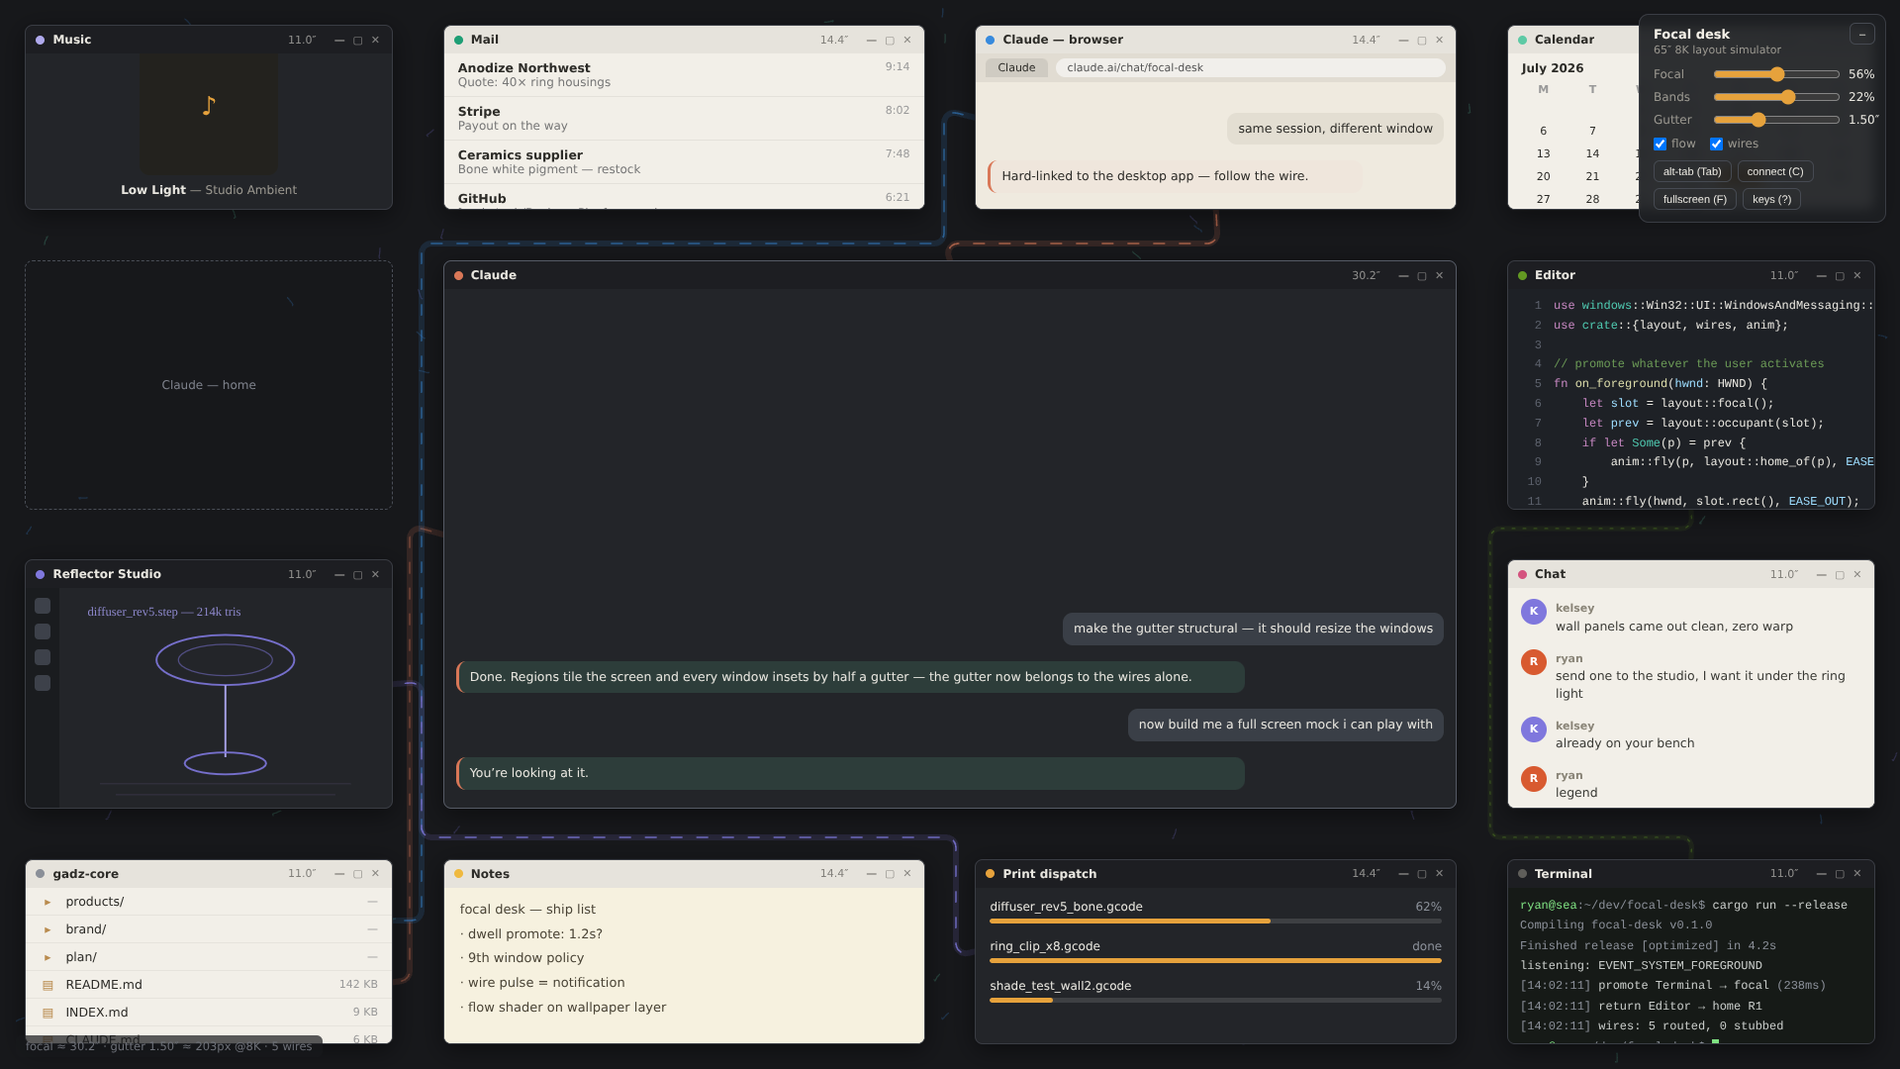
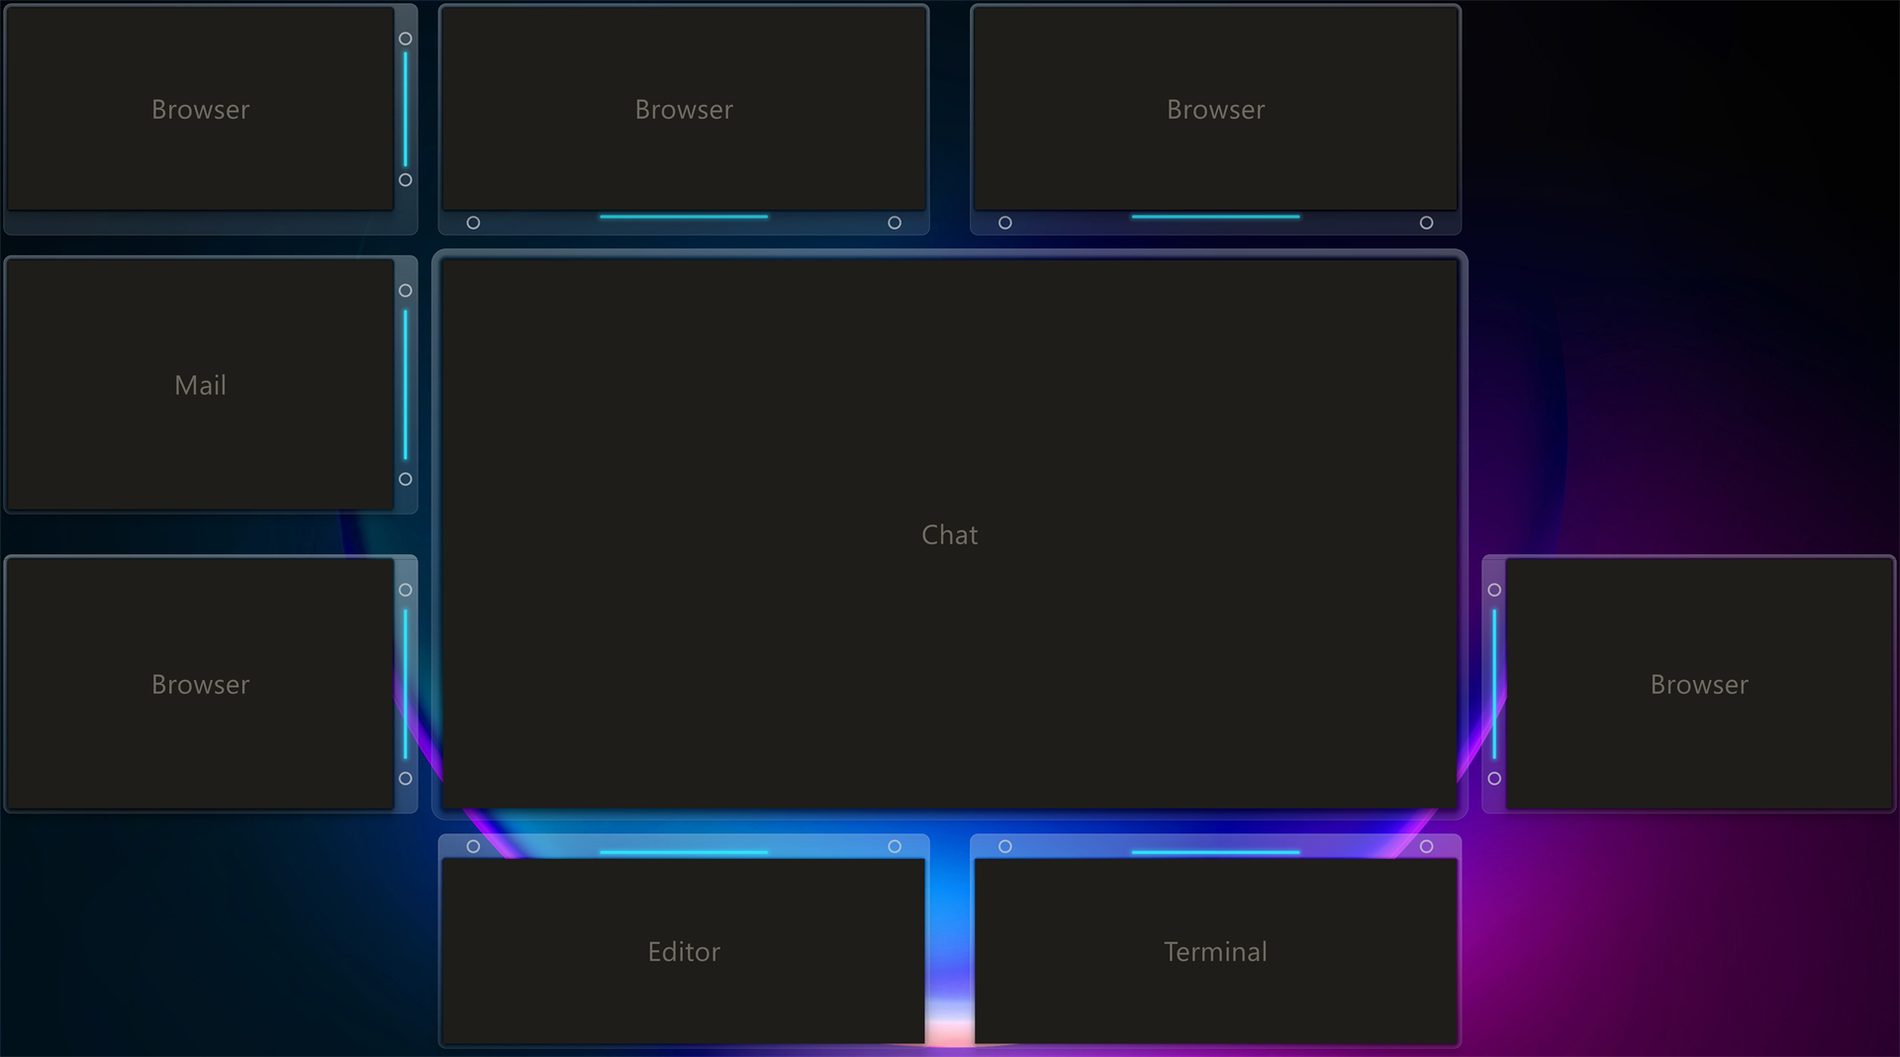
docs: merge feat/frames - README and RUN.md describe the frames (tap to promote, drag to move, focus from the frame only, slot rules, edge margins), new screenshot of the service on the panel with window contents masked; CLAUDE.md marked SHARED-RULES:EXEMPT (this repo is public)
The shared-rules block had been stamped into this public repo's CLAUDE.md on 2026-08-21 and re-synced 2026-09-01; per the rule a public repo carries the EXEMPT marker instead. The screenshot is the real 8K panel at 15:53 on 2026-09-04, downscaled to 1920 wide, every window's client area replaced by a flat panel and a generic label; desktop icons hidden and the taskbar cropped for the capture.

diff --git a/CLAUDE.md b/CLAUDE.md
@@ -22,179 +22,6 @@ Conventions for anyone (human or Claude) working this repo:
 - `win::is_manageable` is the one place that decides what focal-desk owns. Keep
   it conservative — a window that cannot be resized cannot be tiled.
 
-<!-- SHARED-RULES:BEGIN — synced from C:\Dev\SHARED-RULES.md by sync-rules.sh; edit THERE, never here -->
-# Shared rules — every repo under C:\Dev
-
-**This file is the single source of truth.** `sync-rules.sh` stamps it between
-`SHARED-RULES` markers in every repo's `CLAUDE.md`. Rule changes happen HERE,
-then run the sync and commit the touched repos — never edit between the markers
-in a repo. (Origin: box/CLAUDE.md; centralized 2026-08-21 to kill the
-"same text lives in..." copy-paste pattern.)
-
-## The map
-
-`C:\Dev` is a meta-repo (`github.com/ryangadz/dev-meta`, private) holding
-`MAP.md` — the census of what every folder on this machine is (repo / lane
-checkout / worktree / disposable), with its remote, branch, and purpose.
-Confused about a folder? **Read the map, don't guess.** A folder missing from
-the map is a defect: add it or rule it disposable. Whoever edits `MAP.md`
-regenerates `MAP.html` (Ryan's visual pair) in the same session.
-
-## Session communication rules (added 2026-07-30)
-
-### No loose ends in prose
-
-Statements like "two files still uncommitted at `<path>`" are **banned**. They are
-ambiguous (commit what? when? by whom? with what message?) and they are how work gets
-lost. Every piece of pending state lands in exactly one of three places:
-
-1. **Resolved** — Claude does it in-session. This is the default. The target state of
-   this whole stack is that Ryan never manually commits, pushes, or copy-pastes anything;
-   every manual step Claude hands out is a defect to engineer away.
-2. **An explicit action block** — when Ryan must act, it is a fenced block at the END of
-   the message containing the exact commands or the exact decision needed, and nothing
-   else. Never a sentence buried mid-paragraph.
-3. **A tracked file** — the handoff's open-threads list, stating what, where, and who
-   acts next.
-
-Questions for Ryan are never embedded in a paragraph. Use the question tool, or a
-separate line starting `QUESTION:`. One question at a time, impossible to miss.
-
-### Division of labor: Cowork plans, Code executes (added 2026-07-31)
-
-A Cowork session's deliverable is the **written plan**: files on disk, handoff, a
-BUILD-QUEUE/runbook entry naming the branch, the paths, and the definition of done.
-Execution — git, installs, merges, verification — belongs to **Claude Code sessions**,
-which pick the plan up from those files. Proven live 2026-07-31: a Code session
-committed and pushed `gate-family-instance` from the written plan at 17:28, minutes
-before Ryan pasted a Cowork-issued action block for the SAME work — a double-execution
-collision that is exactly the cut-and-paste error class this split exists to remove.
-Action blocks to Ryan are reserved for the few things only he can do (GitHub web steps,
-physical hardware, secrets) — never for anything a Code session can run.
-
-**Corollary — one session, one lane.** A session that notices work outside its lane
-writes it into the plan for the right lane instead of doing it.
-
-**The proven multiplier (reflector studio, days 1-2; Ryan, 2026-07-31): Cowork drafts
-prompts for SEVERAL parallel Code workers with disjoint write sets — one checkout per
-worker, lanes like features/export/UI — in `box/WORKER-PROMPTS-<date>.md`. Ryan's
-paste burden is one launch line per worker, never streams of git. Cut-and-paste is a
-scarce resource: every paste is a chance for artifacts to creep into bash/powershell
-and for Ryan to lose the bigger picture across windows.**
-
-### Read before you build
-
-Before starting any work: read the connected folder's `CLAUDE.md` and the newest handoff,
-then **verify whether the thing already exists** — by observation, not by what a doc
-says. Sessions have repeatedly rebuilt finished work or started it in the wrong folder.
-If information is missing, ask directly instead of guessing or rebuilding. "Verified"
-means observed, never inferred.
-
-### Plans that cross machines (added 2026-08-07)
-
-**A plan that crosses machines is committed and pushed before its worker launches —
-uncommitted plans exist on one disk only.** (Proven 2026-08-07: Worker B fetched
-everything and the plan wasn't there.) Push it to a branch the worker's machine
-actually fetches — the N100's `~/ryan` pulls `lily`, not `main`.
-
-### Current Ryan overrides previous Ryan (added 2026-08-08)
-
-A recorded decision is a memory aid, never a veto. When today's instruction contradicts
-the record, say "this was by design (date, reason)" in one line — then follow today's
-instruction and update the record to match. Never block current work on past approvals.
-
-### The drop test (added 2026-08-08)
-
-Any machine may die at any moment and it must not matter. Every folder on every machine
-is a pushed clone (private GitHub for personal — OneDrive is retired), or explicitly
-listed as disposable (in `MAP.md`). Sessions end with work committed and pushed;
-overnight uncommitted state is a defect.
-
-## Doc naming: dated = record, undated = living (added 2026-08-21)
-
-A date in a filename means the file is a **record of that date/window** — day plans,
-handoffs, worker prompts, single-run runbooks. Records are never updated after their
-window closes; new work goes in a new file. **Living documents** (plans of record,
-decision records, strategies) carry **no date in the name**; they open with
-`**Opened:** <date>` and accrue dated amendment sections inline — chronology lives in
-the sections and in git, so there is no last-updated field to rot. When a dated file
-starts accruing amendments past its window, it has changed class: rename it undated
-(`git mv` + fix references) in that session. **Why (Ryan, 2026-08-21):** a dated title
-on a living doc reads as stale, and two similar docs diverging is how future Ryan
-loses track of which one is true when something breaks. One living doc per topic;
-records frozen at their window.
-
-## Lanes are full clones, not worktrees (added 2026-08-21)
-
-Proven in the XPS→desk machine copy: every full-clone lane survived; six of seven
-git worktrees came out orphaned (a worktree's `.git` file embeds an absolute path to
-its parent repo, which a copy or a dead cloud mount silently breaks). New parallel
-lanes get their **own clone** on their own branch. Harness-managed throwaway
-worktrees (`.claude/worktrees/*`) are exempt — they are disposable by construction.
-
-## Privacy boundaries (added 2026-08-21)
-
-- `C:\Dev\olga` is Olga's. Sessions never read or catalog its contents. When her
-  private repo exists, seed its `CLAUDE.md` with this shared block.
-- **Public repos never carry this block.** Nothing personal, family-internal, or
-  machine-specific lands in one — and this block is all three, so a public repo's
-  `CLAUDE.md` is deliberately marked `SHARED-RULES:EXEMPT` instead of stamped.
-  Currently public: `ryangadz.github.io` and `vector-studio-llm` (the second
-  found unmarked 2026-09-01 — it had no markers at all, so the next sync would
-  have stamped Olga's folder, Lily's tablet and the N100 into a public repo).
-  **Making a repo public means marking its `CLAUDE.md` EXEMPT in the same
-  session.**
-
-## Everything lives under `C:\Dev` — never the user profile (Olga, 2026-08-30)
-
-It applies to **paths sessions recommend**, not just files they write. Olga,
-2026-08-30, after a runbook step told her to clone to `%USERPROFILE%\Dev\household`:
-the users directory on this computer is never used for Claude sessions.
-
-- **No session ever writes to, clones into, or recommends a path under
-  `C:\Users\...`** — not `%USERPROFILE%`, not AppData, not Documents or
-  Downloads. Every repo, lane, clone and deliverable lives under `C:\Dev`.
-- A per-person lane gets its own `C:\Dev` folder (lanes are full clones):
-  Olga's household lane is **`C:\Dev\household-olga`**, alongside Ryan's
-  `C:\Dev\household`.
-- Writing `%USERPROFILE%` into a runbook, worker prompt or paste block is the
-  same defect as writing the file there. Check plans for it before handing
-  them over.
-
-### File delivery: connected folders, never the session scratchpad (Ryan, repeatedly; finally filed 2026-08-24)
-
-The narrower case of the same rule. Ryan has told sessions repeatedly not to
-deliver files into the Cowork outputs/scratchpad under
-`C:\Users\ryang\AppData\...` — he can't find them there, and on 2026-08-24 it
-cost him his own resume mid-application.
-
-- **Anything Ryan will open, keep, or submit lands in a connected `C:\Dev`
-  folder** (the right repo for the content — personal → `ryan/inbox` if
-  unsure), THEN gets presented. The scratchpad is for intermediate work
-  only.
-- Presenting a file straight from the scratchpad is a defect even though
-  the tool allows it.
-
-## Ryan creates repos; sessions push into them (added 2026-09-01)
-
-Sessions do not run `gh repo create` — Ryan makes the repo, a session clones and
-populates it. The governing rule is about *sensitivity, not complexity*:
-**anything whose failure mode is exposure gets initiated by Ryan personally**,
-however simple the step looks. Repo creation for family or personal material is
-the canonical case — the account/org a repo lands in is the whole security
-boundary, and GitHub base permissions are a *floor*, so a repo created in an org
-with read-for-all members is exposed the moment it exists. A session that thinks
-it needs a new repo asks for one.
-
-## A cross-repo rule lands HERE in the session that writes it (added 2026-09-01)
-
-Three rules accumulated a "this belongs in `SHARED-RULES.md`; a Code session
-ports it" note and none got ported — a **loose end in prose**, the exact failure
-class the session-communication rules ban. The root cause is narrower than
-"sessions forget": a Cowork session usually has one or two repos mounted and
-**cannot reach `C:\Dev\SHARED-RULES.md` at all**, so it has nowhere to put the
-rule but the local file. Apply the three-places rule instead: a session that
-writes a cross-repo rule it cannot port itself **files a `box/WORKER-PROMPTS-<date>.md`
-entry for the port in the same session** — a tracked file naming who acts next —
-never a prose IOU inside a `CLAUDE.md`.
-<!-- SHARED-RULES:END -->
+<!-- SHARED-RULES:EXEMPT — this repo is PUBLIC (github.com/gadz-tech/focal-desk); the private
+     shared-rules block is deliberately not vendored here. Marked 2026-09-04 by Worker F on
+     merging feat/frames: the block had been stamped in on 2026-08-21 and re-synced 2026-09-01. -->

diff --git a/README.md b/README.md
@@ -1,19 +1,21 @@
 # focal-desk
 
-> **The service runs.** [`crates/`](crates/) holds a Rust window manager that moves real Windows apps — built and smoke-tested on the 65″ 8K panel it was designed for. `index.html` remains the playable concept mock and the behavioral spec. The wallpaper layer (flow field + wires) is still to come.
+> **The service runs.** [`crates/`](crates/) holds a Rust window manager that moves real Windows apps — built for, and used daily on, the 65″ 8K panel it was designed for. Every managed window wears a glass **frame**: tap it to promote, drag it to move; clicking *into* a window never moves anything. `index.html` is the original concept mock, kept as a demo — the `focal-core` tests are the spec. The wallpaper layer (flow field + wires) is still to come.
 
-![Focal-desk mock: a simulated 65-inch desktop with a large focal window, satellite home slots, and glowing connection wires routed through the gutters](screenshot.png)
+![focal-desk on the 65-inch 8K panel: a large focal stage in the center, satellite home slots around it, every window in a translucent glass frame with a neon port strip on the side facing the center; window contents masked](screenshot.png)
+
+*The service on the real panel, 2026-09-04 — window contents masked; the chat window is on the stage.*
 
 An interactive concept mock for a **focal-priority window layout** on very large screens, built around a 65″ 8K panel.
 
-The idea: on a screen that big, your eyes live in the center — the corners are peripheral vision. So instead of edge-snapping and maximized zones, every app owns a permanent **home slot** arranged in a bullseye around a large **focal slot**. Activating a window promotes it to the focal slot; the previous occupant flies back to its own home, so spatial muscle memory never breaks. The focal slot is a stage, not a size: apps carry a **focal-fit** hint, so a terminal promotes to a tall column rather than a full-width sprawl. Windows are spaced by a structural **gutter** (set in real inches) that actively resizes windows and belongs exclusively to the **connection wires** — glowing, PCB-style routed links between related apps (hard links auto-detected, soft links drawn by hand; multiple wires leaving one window get their own ports along the edge). A slow flow-field drifts through the gaps, a nod to the Swordfish monitor rig. Panel model inspired by Meta Orion, which I personally worked on.
+The idea: on a screen that big, your eyes live in the center — the corners are peripheral vision. So instead of edge-snapping and maximized zones, every app owns a permanent **home slot** arranged in a bullseye around a large **focal slot**. Tapping a window's frame promotes it to the focal slot; the previous occupant flies back to its own home, so spatial muscle memory never breaks. The focal slot is a stage, not a size: apps carry a **focal-fit** hint, so a terminal promotes to a tall column rather than a full-width sprawl. Windows are spaced by a structural **gutter** (set in real inches) that actively resizes windows and belongs exclusively to the **connection wires** — glowing, PCB-style routed links between related apps (hard links auto-detected, soft links drawn by hand; multiple wires leaving one window get their own ports along the edge). A slow flow-field drifts through the gaps, a nod to the Swordfish monitor rig. Panel model inspired by Meta Orion, which I personally worked on.
 
 **Run it on Windows:** see [RUN.md](RUN.md) — install Rust, `cargo run --release`.
 
-**Try the mock:** [play it in your browser](https://gadz-tech.github.io/focal-desk/) — or open `index.html` locally. Press F11 either way; single file, no dependencies.
+**Try the concept mock:** [play it in your browser](https://gadz-tech.github.io/focal-desk/) — or open `index.html` locally. Press F11 either way; single file, no dependencies. (It predates the frames and is no longer the spec.)
 
 Controls: click a window (or `Tab` / number keys `1–9 0 - =`) to promote it; `Esc` clears focus; `C` toggles connect mode — click two windows to link or unlink them; `F` fullscreen; `?` shows all keys. Sliders set focal size, band height, and gutter width.
 
-The service lives in [`crates/`](crates/) — `focal-core` is the OS-free brain (layout, promotion, wire routing; 20 unit tests, `cargo run` prints a narrated demo) and `focal-win` is the Win32 adapter. Design map: [ARCHITECTURE.md](ARCHITECTURE.md).
+The service lives in [`crates/`](crates/) — `focal-core` is the OS-free brain (layout, promotion, slot rules, frame geometry and its painter, wire routing; 72 unit tests, `cargo run` prints a narrated demo) and `focal-win` is the Win32 adapter. Design map: [ARCHITECTURE.md](ARCHITECTURE.md).
 
-Real-world behavior: a small Rust service using a foreground-event hook for promotion, a slot config, animated `SetWindowPos` transitions, and — still to come — a wallpaper-layer renderer for the flow and wires. The service is dock-aware: inactive on the laptop's own display, active by default in desk mode when the eGPU (GeForce RTX 5060 Ti) and the 65″ panel are attached — detected via display-topology and device hot-plug events, releasing all windows to normal behavior on undock.
+Real-world behavior: a small Rust service with a per-window frame (four small per-pixel-alpha windows behind each app: tap to promote, drag to a slot; an OS foreground change is informational and never moves anything), assignable slot rules with priority, flights that animate a DWM thumbnail and resize the real window exactly once, and — still to come — a wallpaper-layer renderer for the flow and wires. The service is dock-aware: inactive on the laptop's own display, active by default in desk mode when the eGPU (GeForce RTX 5060 Ti) and the 65″ panel are attached — detected via display-topology and device hot-plug events, releasing all windows to normal behavior on undock.

diff --git a/RUN.md b/RUN.md
@@ -45,8 +45,19 @@ exits, so the logon task and a manual run cannot end up fighting each other.
 
 - With the 8K panel attached, focal-desk detects it (any display 5000px or wider
   counts as the desk) and every manageable window flies to a home slot.
-- Click a window — after `dwell_ms` (1.2s by default) it flies to the focal
-  stage and the previous occupant returns to its own home.
+- Every managed window wears a glass **frame**: slim on three sides, thick on
+  the side facing the screen's center, with a neon strip and two ports on the
+  thick side. **Tap the frame** and the window flies to the focal stage — a
+  DWM thumbnail flies, the real window is resized once, when it lands — and the
+  previous occupant returns to its own home. Clicking *into* a window never
+  moves it: focus comes from the frame only (`dwell_ms = 0`; a number brings
+  the old hold-to-promote back).
+- **Drag the frame** past a finger's width and drop it on another slot to give
+  the window a new home; a drop on the stage is a promote. The window on the
+  stage wears a slim ring all round, no thick side.
+- Frames sit behind their window, hide under a fullscreen video and while a
+  window is minimized. A minimized window leaves the layout and takes the first
+  free slot when it comes back (its old home is not reserved yet).
 - Click the desktop to clear the stage.
 - `Ctrl+Alt+Space` also clears the stage, as does **Clear stage** on the tray
   menu.
@@ -72,24 +83,34 @@ there until something moves it. Re-saving the config (even unchanged) puts
 every window back where it belongs, and fixes any window whose first placement
 landed a few pixels out because its frame was still settling when it opened.
 
-One caveat: `gutter_in`, `focal_frac`, `band_frac` and `dwell_ms` take effect
-immediately, but a changed `home` or `focal_fit` applies to windows opened
-*after* the edit. Re-homing windows already on screen is exactly the
+One caveat: the geometry knobs and `dwell_ms` take effect immediately, but a
+changed `slots`, `priority` or `focal_fit` applies to windows opened *after*
+the edit. Re-homing windows already on screen is exactly the
 muscle-memory breakage the layout exists to prevent.
 
 ```
 gutter_in          = 1.5    # structural gap; actively resizes windows
 focal_frac         = 0.56   # width of the focal column
 band_frac          = 0.22   # height of the top/bottom bands
-dwell_ms           = 1200   # focus hold time before promotion
+dwell_ms           = 0      # 0 = frames only; e.g. 1200 = hold-to-promote too
+edge_in            = 0.25   # window to the top/left/right screen edge, inches
+edge_bottom_in     = 0.75   # bottom row to the bottom edge (the taskbar)
+tab_in             = 0.75   # the frame's thick side, inches
+frame_in           = 0.15   # the frame's slim sides, inches
+stage_in           = 0.35   # the stage's ring, inches
 screen_diagonal_in = 65
 force_active       = false  # true = manage windows without the desk display
 
 [app]
 process   = *windowsterminal*
-home      = left-bottom
+slots     = corners          # ordered preferences; `home = X` is the one-slot form
+priority  = true             # claim the first preference even if it is taken
 focal_fit = 0.55 x 1.0
 ```
+
+Rules match by `process`, `title`, `class` or `match` (a substring of any of the
+three). Without `priority`, whichever window is adopted first keeps a slot. A
+broken rule is logged and skipped; the rest of the file still loads.
 
 Slots: `focal`, `left-top`, `left-bottom`, `right-top`, `right-bottom`,
 `top-1`, `top-2`, `bottom-1`, `bottom-2`, `corner-tl`, `corner-tr`,
@@ -130,8 +151,11 @@ process = *obs64*
   only ever hold them wrong. They float instead.
 - **The wallpaper layer — flow field and connection wires — is not implemented
   yet.** The router that computes the wire paths is done and tested; drawing
-  them behind the windows is the next piece of work. Until then, this is the
-  layout engine only.
+  them behind the windows is the next piece of work. The frames' ports are all
+  "free" (silver) until then.
+- **The frames are tinted glass without blur.** Real frosted blur needs a
+  DirectComposition host; the tint, the fade into the window, the strip and the
+  ports are painted per pixel today.
 - The focal stage plus 12 home slots. A 13th window is left unmanaged (floats)
   rather than displacing anything — pinned by `engine::tests::thirteenth_window_floats`.
 
